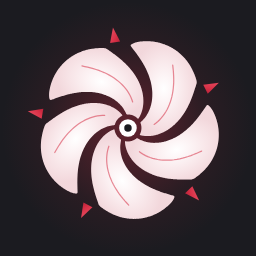
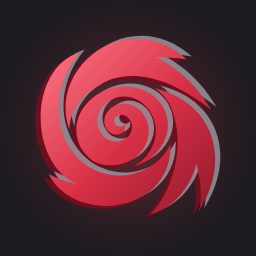
Rosa nova (redemoinho 4D-2) em toda a identidade: ícones, login, barra e crédito
- RoseEmblem: Vórtice trocado pelo redemoinho "flower-twirl" (Game Icons, CC BY 3.0) em separação de cor (vinho, prata, carmim)
- Ícones do app, favicon e badge regerados (scripts/gen-icons.py)
- Login sem a espiral tracejada antiga
- Crédito do desenho em Configurações > Sobre (4 idiomas)

diff --git a/src/components/RoseEmblem.tsx b/src/components/RoseEmblem.tsx
@@ -1,68 +1,30 @@
-// Emblema "Vórtice" do Rose: 5 pétalas em redemoinho, olho no centro e 5 espinhos. Formas geradas por código.
-// <EmblemDefs/> entra uma vez na página; <Emblem/> reaproveita as formas (<use>) com separação de cores carmim/prata.
-const PETAL = 'M 8.7,-245.4 L 9.9,-246.5 L 11.2,-247.4 L 12.5,-248.3 L 14.0,-249.0 L 15.5,-249.7 L 17.1,-250.4 L 18.7,-251.0 L 20.4,-251.6 L 22.1,-252.1 L 23.9,-252.7 L 25.7,-253.1 L 27.7,-253.6 L 29.7,-254.0 L 31.8,-254.3 L 33.8,-254.7 L 35.9,-255.0 L 38.1,-255.2 L 40.2,-255.5 L 42.3,-255.7 L 44.5,-255.8 L 46.6,-256.0 L 48.7,-256.1 L 50.9,-256.2 L 53.0,-256.2 L 55.2,-256.3 L 57.3,-256.2 L 59.5,-256.2 L 61.6,-256.1 L 63.8,-256.0 L 65.9,-255.9 L 68.0,-255.7 L 70.2,-255.6 L 72.3,-255.3 L 74.5,-255.1 L 76.6,-254.8 L 78.7,-254.5 L 80.8,-254.1 L 83.0,-253.8 L 85.1,-253.3 L 87.2,-252.9 L 89.3,-252.4 L 91.4,-251.9 L 93.5,-251.4 L 95.6,-250.9 L 97.6,-250.3 L 99.7,-249.7 L 101.8,-249.0 L 103.8,-248.3 L 105.9,-247.6 L 107.9,-246.9 L 109.9,-246.1 L 111.9,-245.3 L 113.9,-244.5 L 115.9,-243.6 L 117.9,-242.8 L 119.8,-241.8 L 121.8,-240.9 L 123.7,-239.9 L 125.6,-238.9 L 127.5,-237.9 L 129.4,-236.9 L 131.3,-235.8 L 133.1,-234.7 L 134.9,-233.5 L 136.8,-232.4 L 138.6,-231.2 L 140.4,-230.0 L 142.1,-228.7 L 143.9,-227.5 L 145.6,-226.2 L 147.3,-224.9 L 149.0,-223.5 L 150.7,-222.2 L 152.3,-220.8 L 154.0,-219.4 L 155.6,-217.9 L 157.2,-216.5 L 158.7,-215.0 L 160.3,-213.5 L 161.8,-212.0 L 163.3,-210.4 L 164.8,-208.9 L 166.2,-207.3 L 167.7,-205.7 L 169.1,-204.1 L 170.5,-202.4 L 171.8,-200.8 L 173.2,-199.1 L 174.5,-197.4 L 175.8,-195.7 L 177.0,-193.9 L 178.3,-192.2 L 179.5,-190.4 L 180.7,-188.6 L 181.8,-186.8 L 183.0,-185.0 L 184.1,-183.2 L 185.2,-181.3 L 186.2,-179.5 L 187.2,-177.6 L 188.2,-175.7 L 189.2,-173.8 L 190.2,-171.8 L 191.1,-169.8 L 192.1,-167.8 L 193.0,-165.8 L 194.0,-163.6 L 194.9,-161.4 L 195.9,-159.1 L 196.9,-156.8 L 197.8,-154.4 L 198.7,-152.0 L 199.6,-149.5 L 200.4,-146.9 L 201.2,-144.3 L 202.0,-141.5 L 202.7,-138.6 L 203.0,-135.9 L 203.0,-133.4 L 202.7,-131.2 L 202.0,-129.1 L 201.3,-127.0 L 200.7,-124.8 L 200.0,-122.7 L 199.3,-120.5 L 198.6,-118.4 L 197.9,-116.2 L 197.2,-114.0 L 196.5,-111.8 L 195.8,-109.6 L 195.1,-107.4 L 194.4,-105.2 L 193.6,-103.0 L 192.9,-100.8 L 192.1,-98.6 L 191.3,-96.4 L 190.5,-94.2 L 189.7,-92.0 L 188.8,-89.8 L 188.0,-87.7 L 187.1,-85.5 L 186.2,-83.3 L 185.3,-81.1 L 184.4,-79.0 L 183.5,-76.8 L 182.5,-74.7 L 181.6,-72.5 L 180.6,-70.4 L 179.6,-68.3 L 178.5,-66.2 L 177.5,-64.1 L 176.4,-62.0 L 175.4,-60.0 L 174.2,-57.9 L 173.1,-55.9 L 172.0,-53.9 L 170.8,-51.9 L 169.6,-49.9 L 168.4,-47.9 L 167.2,-46.0 L 166.0,-44.0 L 164.7,-42.1 L 163.5,-40.2 L 162.2,-38.3 L 160.8,-36.5 L 159.5,-34.6 L 158.2,-32.8 L 156.8,-31.0 L 155.4,-29.3 L 154.0,-27.5 L 152.6,-25.8 L 151.1,-24.1 L 149.7,-22.4 L 148.2,-20.7 L 146.7,-19.1 L 145.2,-17.5 L 143.6,-15.9 L 142.1,-14.3 L 140.5,-12.8 L 139.0,-11.3 L 137.4,-9.8 L 135.8,-8.4 L 134.1,-7.0 L 132.5,-5.6 L 130.9,-4.2 L 129.2,-2.9 L 127.5,-1.5 L 125.8,-0.3 L 124.1,1.0 L 122.4,2.2 L 120.7,3.4 L 118.9,4.5 L 117.2,5.7 L 115.4,6.8 L 113.7,7.8 L 111.9,8.9 L 110.1,9.9 L 108.3,10.8 L 106.5,11.8 L 104.7,12.7 L 102.8,13.5 L 101.0,14.4 L 99.2,15.2 L 97.3,15.9 L 95.5,16.6 L 93.6,17.3 L 91.8,18.0 L 89.9,18.6 L 88.1,19.2 L 86.2,19.8 L 84.3,20.3 L 82.5,20.8 L 80.6,21.2 L 78.7,21.7 L 76.8,22.0 L 75.0,22.4 L 73.1,22.7 L 71.2,23.0 L 69.4,23.2 L 67.5,23.4 L 65.6,23.5 L 63.8,23.7 L 61.9,23.8 L 60.1,23.8 L 58.2,23.8 L 56.4,23.8 L 54.6,23.8 L 52.8,23.7 L 51.0,23.5 L 49.2,23.4 L 47.4,23.2 L 45.6,22.9 L 43.8,22.7 L 42.1,22.4 L 40.3,22.0 L 38.6,21.6 L 36.9,21.2 L 35.7,20.7 L 35.1,20.1 L 35.0,19.3 L 35.4,18.5 L 35.9,17.6 L 36.3,16.8 L 36.7,15.9 L 37.0,15.0 L 37.4,14.1 L 37.7,13.2 L 38.0,12.3 L 38.3,11.4 L 38.6,10.5 L 38.8,9.5 L 39.0,8.6 L 39.2,7.7 L 39.4,6.7 L 39.5,5.8 L 39.7,4.8 L 39.8,3.9 L 39.9,2.9 L 39.9,2.0 L 39.9,1.0 L 40.0,0.0 L 39.9,-0.9 L 39.9,-1.9 L 39.9,-2.8 L 39.8,-3.8 L 39.7,-4.7 L 39.5,-5.7 L 39.4,-6.6 L 39.2,-7.6 L 39.0,-8.5 L 38.8,-9.5 L 38.6,-10.4 L 38.3,-11.3 L 38.0,-12.2 L 37.7,-13.1 L 37.4,-14.0 L 37.1,-14.9 L 37.1,-15.9 L 37.6,-16.9 L 38.5,-18.0 L 39.9,-19.2 L 41.2,-20.4 L 42.4,-21.6 L 43.7,-22.9 L 44.9,-24.2 L 46.2,-25.5 L 47.3,-26.9 L 48.5,-28.2 L 49.7,-29.7 L 50.8,-31.1 L 51.9,-32.6 L 52.9,-34.0 L 54.0,-35.6 L 55.0,-37.1 L 56.0,-38.7 L 56.9,-40.3 L 57.9,-41.9 L 58.8,-43.5 L 59.7,-45.2 L 60.5,-46.9 L 61.3,-48.6 L 62.1,-50.3 L 62.9,-52.1 L 63.6,-53.8 L 64.3,-55.6 L 65.0,-57.4 L 65.6,-59.3 L 66.3,-61.1 L 66.8,-63.0 L 67.4,-64.9 L 67.9,-66.8 L 68.4,-68.7 L 68.9,-70.6 L 69.3,-72.6 L 69.7,-74.5 L 70.1,-76.5 L 70.4,-78.5 L 70.7,-80.5 L 71.0,-82.5 L 71.2,-84.5 L 71.4,-86.6 L 71.6,-88.6 L 71.7,-90.7 L 71.9,-92.7 L 71.9,-94.8 L 72.0,-96.9 L 72.0,-99.0 L 72.0,-101.1 L 72.0,-103.2 L 71.9,-105.3 L 71.8,-107.5 L 71.6,-109.6 L 71.5,-111.7 L 71.2,-113.9 L 71.0,-116.0 L 70.7,-118.2 L 70.4,-120.3 L 70.1,-122.5 L 69.8,-124.6 L 69.4,-126.8 L 68.9,-128.9 L 68.5,-131.1 L 68.0,-133.3 L 67.5,-135.4 L 67.0,-137.6 L 66.4,-139.8 L 65.8,-141.9 L 65.2,-144.1 L 64.5,-146.2 L 63.8,-148.4 L 63.1,-150.5 L 62.4,-152.7 L 61.6,-154.8 L 60.8,-157.0 L 60.0,-159.1 L 59.1,-161.2 L 58.3,-163.3 L 57.4,-165.5 L 56.4,-167.6 L 55.5,-169.7 L 54.5,-171.8 L 53.5,-173.9 L 52.5,-176.0 L 51.5,-178.0 L 50.4,-180.1 L 49.3,-182.2 L 48.2,-184.2 L 47.1,-186.3 L 45.9,-188.3 L 44.7,-190.3 L 43.5,-192.4 L 42.3,-194.4 L 41.1,-196.4 L 39.9,-198.4 L 38.6,-200.3 L 37.3,-202.3 L 36.0,-204.3 L 34.7,-206.2 L 33.4,-208.2 L 32.1,-210.1 L 30.7,-212.0 L 29.4,-213.9 L 28.0,-215.8 L 26.7,-217.7 L 25.3,-219.6 L 23.9,-221.4 L 22.5,-223.3 L 21.1,-225.1 L 19.7,-227.0 L 18.3,-228.8 L 17.0,-230.6 L 15.6,-232.4 L 14.2,-234.2 L 12.8,-236.0 L 11.5,-237.8 L 10.1,-239.5 L 8.8,-241.3 L 8.1,-242.8 L 8.1,-244.2 Z'
-const VEIN = 'M 77.3,-10.5 L 83.0,-14.7 L 88.4,-19.2 L 93.7,-24.2 L 98.6,-29.6 L 103.4,-35.4 L 107.8,-41.5 L 111.9,-48.0 L 115.7,-54.7 L 119.2,-61.8 L 122.3,-69.1 L 125.1,-76.7 L 127.6,-84.5 L 129.7,-92.5 L 131.4,-100.6 L 132.8,-108.9 L 133.9,-117.3 L 134.6,-125.8 L 135.1,-134.3 L 135.2,-143.0 L 135.0,-151.6 L 134.6,-160.2 L 134.0,-168.8 L 133.1,-177.3 L 132.2,-185.8'
-const ROT = [0, 72, 144, 216, 288]
-const THORN_ROT = [63.5, 135.5, 207.5, 279.5, 351.5]
+// Rosa do Rose: redemoinho "flower-twirl" do Game Icons (Lorc, CC BY 3.0, game-icons.net) em separação de cor:
+// sombra vinho e reflexo prata deslocados atrás de um redemoinho carmim em degradê (variação 4D-2).
+// <EmblemDefs/> entra uma vez na página; <Emblem/> reaproveita as formas (<use>).
+export const TWIRL = 'M277.15 15.205C156.242 16.415 55.302 138.49 97.855 259.738c.236-.898.495-1.78.74-2.672c2.014-44.925 29.754-87.052 72.382-111.033C240.472 96.4 349.52 103.243 482.07 207.91C441.497 139.717 395.89 98.6 331.764 64.86c25.326 1.366 52.64 1.44 83.797 6.826c-44.575-40.27-92.906-56.936-138.41-56.48zM125.822 52.412c-137.746 41.46-140.07 297.526-7.592 355.668c-26.982-5.33-52.944-14.213-75.92-26.867c70.023 139.78 335.9 106.928 329.42-81.266c-17.214 37.204-52.435 67.6-97.572 79.705c-35.122 9.42-70.577 6.236-100.363-6.76c-98.026-39.283-154.31-188.008-47.97-320.48zm123.96 91.914c-12.187-.084-24.737 1.472-37.323 4.848c-67.128 18.003-107.523 80.338-91.952 138.502c7.036 26.283 24.393 47.58 47.498 61.373c17.175 6.946 35.95 9.88 54.303 8.15c50.952-4.81 95.722-48.554 90.434-100.952c-3.738-37.02-35.686-69.512-73.648-65.363c-26.23 2.867-49.247 25.63-46.123 52.295c2.097 17.902 17.716 33.58 35.705 31.297h.002c11.602-1.472 21.745-11.662 20.197-23.002a14.6 14.6 0 0 0-1.21-4.096a15.97 15.97 0 0 1-8.044 5.077c-8.567 2.296-17.376-2.79-19.672-11.357c-2.294-8.568 2.79-17.373 11.36-19.668c.49-.132.984-.235 1.477-.32l-.002-.01l.13-.016h.005c17.875-2.566 32.265 11.716 34.47 27.86h-.003c3.123 22.877-15.39 41.404-36.358 44.064c-29.462 3.737-53.413-20.335-56.614-47.656c-4.464-38.11 26.966-69.14 62.65-73.042a80 80 0 0 1 9.14-.478c45.104.222 80.722 38.92 85.126 82.54c4.628 45.855-21.593 85.602-59.184 106.435c65.427-18.976 104.47-80.37 89.12-137.714c-12.652-47.26-58.668-78.407-111.485-78.77zm79.74 5.326c23.968 16.104 42.048 39.66 49.798 68.612c.908 3.39 1.65 6.79 2.243 10.187c26.737 85.357-5.167 199.845-63.8 261.392C379.27 473.715 425.278 417.11 441.6 353.756c12.557 44.178 15.743 89.788 7.02 128.187c93.862-152.582 29.32-296.865-119.097-332.29z'
 
 export function EmblemDefs() {
   return (
     <svg width="0" height="0" aria-hidden style={{ position: 'absolute' }}>
       <defs>
-        <g id="lg-petals">
-          {ROT.map((a) => <path key={a} d={PETAL} transform={`translate(310 310) rotate(${a})`} />)}
-        </g>
-        <g id="lg-thorns">
-          {THORN_ROT.map((a) => <polygon key={a} points="0,-300 -15,-256 15,-256" transform={`translate(310 310) rotate(${a})`} />)}
-        </g>
-        <g id="lg-veins" fill="none" stroke="#d62f45" strokeWidth={3.6} strokeLinecap="round" opacity={0.55}>
-          {ROT.map((a) => <path key={a} d={VEIN} transform={`translate(310 310) rotate(${a})`} />)}
-        </g>
-        <linearGradient id="lg-crimson" x1="0" y1="0" x2="1" y2="1">
-          <stop offset="0" stopColor="#ec5468" />
-          <stop offset="0.7" stopColor="#d62f45" />
-          <stop offset="1" stopColor="#b8233a" />
+        <path id="rose-twirl" d={TWIRL} />
+        <linearGradient id="rose-cr" x1="0" y1="0" x2="1" y2="1">
+          <stop offset="0" stopColor="#ff7a8a" />
+          <stop offset=".55" stopColor="#d62f45" />
+          <stop offset="1" stopColor="#8f1a2c" />
         </linearGradient>
-        <radialGradient id="lg-shade" cx="50%" cy="50%" r="50%">
-          <stop offset="0" stopColor="#d62f45" stopOpacity="0" />
-          <stop offset="1" stopColor="#b8233a" stopOpacity="0.35" />
-        </radialGradient>
-        <filter id="lg-wob" x="-10%" y="-10%" width="120%" height="120%">
-          <feTurbulence type="fractalNoise" baseFrequency="0.014" numOctaves="2" result="n" seed="7" />
-          <feDisplacementMap in="SourceGraphic" in2="n" scale="7" xChannelSelector="R" yChannelSelector="G" />
-        </filter>
       </defs>
     </svg>
   )
 }
 
-/** simple = versão pequena (sem oscilação líquida nem separação de cores) */
+/** simple = sem a sombra de brilho (tamanhos pequenos); as três camadas ficam em qualquer tamanho */
 export function Emblem({ simple = false, className }: { simple?: boolean; className?: string }) {
-  const wob = simple ? undefined : 'url(#lg-wob)'
   return (
-    <svg className={className} viewBox="0 0 620 620" fill="none" aria-hidden>
-      {!simple && (
-        <>
-          <g className="lg-chroma lg-chroma-red" filter={wob}>
-            <use href="#lg-petals" fill="#d62f45" />
-            <use href="#lg-thorns" fill="#d62f45" />
-            <circle cx="310" cy="310" r="26" fill="#d62f45" />
-          </g>
-          <g className="lg-chroma lg-chroma-silver" filter={wob}>
-            <use href="#lg-petals" fill="#c3c6d0" />
-            <use href="#lg-thorns" fill="#c3c6d0" />
-            <circle cx="310" cy="310" r="26" fill="#c3c6d0" />
-          </g>
-        </>
-      )}
-      <g filter={wob}>
-        <use href="#lg-petals" fill="#ffffff" />
-        {!simple && <use href="#lg-petals" fill="url(#lg-shade)" />}
-        <use href="#lg-veins" />
-        <use href="#lg-thorns" fill={simple ? '#d62f45' : 'url(#lg-crimson)'} />
-        <circle cx="310" cy="310" r="26" fill="#ffffff" />
-        <circle cx="310" cy="310" r="11" fill="#1b1b20" />
-      </g>
+    <svg className={className} viewBox="0 0 512 512" fill="none" aria-hidden>
+      <g transform="translate(-14 8)"><use href="#rose-twirl" fill="#6e0f1f" /></g>
+      <g transform="translate(14 -8)" opacity={0.6}><use href="#rose-twirl" fill="#c3c6d0" /></g>
+      <use href="#rose-twirl" fill="url(#rose-cr)" style={simple ? undefined : { filter: 'drop-shadow(0 0 18px rgba(214,47,69,.35))' }} />
     </svg>
   )
 }

diff --git a/src/styles/motion.css b/src/styles/motion.css
@@ -5,7 +5,7 @@
 .rail-brand { display: flex; align-items: center; gap: 10px; flex: none; color: var(--text); font-weight: 700; font-size: 16px; letter-spacing: -.02em; }
 .rail-brand i { width: 34px; height: 34px; border-radius: 10px; display: grid; place-items: center; flex: none;
   background: radial-gradient(circle, rgba(214,47,69,.35), transparent 70%), #1b1b20; box-shadow: inset 0 0 0 1px rgba(195,198,208,.12); }
-.rail-brand svg { width: 28px; height: 28px; }
+.rail-brand svg { width: 26px; height: 26px; }
 .shell.rail-open .rail-brand { padding: 0 0 4px; }
 @media (max-width: 820px) { .rail-brand { display: none; } }
 

diff --git a/src/components/Login.tsx b/src/components/Login.tsx
@@ -180,9 +180,6 @@ export function Login({ denied }: Props) {
                 <Emblem className="lg-big" />
               </div>
             </div>
-            <div className="lg-inner">
-              <svg viewBox="0 0 300 300" fill="none"><path d="M 150 40 C 90 40 40 90 40 150 C 40 210 90 260 150 260 C 200 260 240 220 240 170 C 240 130 210 100 170 100 C 140 100 120 120 120 150 C 120 170 135 185 155 185" stroke="#ec5468" strokeWidth="10" strokeLinecap="round" strokeDasharray="14 18" /></svg>
-            </div>
           </div>
         </section>
       </main>

diff --git a/src/components/Settings.tsx b/src/components/Settings.tsx
@@ -228,6 +228,7 @@ export function Settings({ session, theme, setTheme, initialTab = 'account', onC
             <div className="settings-sec">
               {row('Rose', <span>v0.1</span>, t('app.tagline'))}
               {row(t('settings.shortcuts'), <span />, t('settings.shortcutsHint'))}
+              {row(t('settings.iconCredit'), <span />, t('settings.iconCreditHint'))}
             </div>
           )}
         </div>

diff --git a/scripts/gen-icons.py b/scripts/gen-icons.py
@@ -1,46 +1,41 @@
-"""Gera os ícones do app a partir do emblema Vórtice (src/components/RoseEmblem.tsx).
-Uso: python scripts/gen-icons.py  (precisa de playwright: pip install playwright && playwright install chromium)"""
+"""Gera os ícones do app a partir da rosa do Rose (TWIRL em src/components/RoseEmblem.tsx, variação 4D-2).
+Uso: python scripts/gen-icons.py  (precisa de playwright: pip install playwright && playwright install chromium)
+Desenho: "flower-twirl" do Game Icons (Lorc, CC BY 3.0, game-icons.net)."""
 import os, re
 from playwright.sync_api import sync_playwright
 
 ROOT = os.path.dirname(os.path.dirname(os.path.abspath(__file__)))
-src = open(os.path.join(ROOT, "src", "components", "RoseEmblem.tsx"), encoding="utf-8").read()
-PETAL, VEIN = (re.search(rf"const {n} = '([^']+)'", src).group(1) for n in ("PETAL", "VEIN"))
-ROT, THORN = [0, 72, 144, 216, 288], [63.5, 135.5, 207.5, 279.5, 351.5]
+TWIRL = re.search(r"export const TWIRL = '([^']+)'", open(os.path.join(ROOT, "src", "components", "RoseEmblem.tsx"), encoding="utf-8").read()).group(1)
+GRAD = '<linearGradient id="cr" x1="0" y1="0" x2="1" y2="1"><stop offset="0" stop-color="#ff7a8a"/><stop offset=".55" stop-color="#d62f45"/><stop offset="1" stop-color="#8f1a2c"/></linearGradient>'
 
 
-def emblem(detail=True, mono=False):
-    """SVG 620x620 do emblema. mono = silhueta branca (badge de notificação do Android)."""
-    t = lambda a: f'transform="translate(310 310) rotate({a})"'
-    fill = "#fff"
-    petals = "".join(f'<path d="{PETAL}" {t(a)} fill="{fill}"/>' for a in ROT)
-    if detail and not mono:
-        petals += "".join(f'<path d="{PETAL}" {t(a)} fill="url(#sh)"/>' for a in ROT)
-        petals += "".join(f'<path d="{VEIN}" {t(a)} fill="none" stroke="#d62f45" stroke-width="3.6" stroke-linecap="round" opacity=".55"/>' for a in ROT)
-    thorns = "".join(f'<polygon points="0,-300 -15,-256 15,-256" {t(a)} fill="{fill if mono else "url(#cr)"}"/>' for a in THORN)
-    eye = '<circle cx="310" cy="310" r="26" fill="#fff"/>' + ('' if mono else '<circle cx="310" cy="310" r="11" fill="#1b1b20"/>')
-    defs = ('<defs><linearGradient id="cr" x1="0" y1="0" x2="1" y2="1"><stop offset="0" stop-color="#ec5468"/><stop offset=".7" stop-color="#d62f45"/><stop offset="1" stop-color="#b8233a"/></linearGradient>'
-            '<radialGradient id="sh" cx="50%" cy="50%" r="50%"><stop offset="0" stop-color="#d62f45" stop-opacity="0"/><stop offset="1" stop-color="#b8233a" stop-opacity=".18"/></radialGradient></defs>')
-    return f'<svg xmlns="http://www.w3.org/2000/svg" viewBox="0 0 620 620">{defs}{petals}{thorns}{eye}</svg>'
+def rose(mono=False):
+    """SVG 512x512 da rosa. mono = silhueta branca (badge de notificação do Android)."""
+    if mono:
+        return f'<svg xmlns="http://www.w3.org/2000/svg" viewBox="0 0 512 512"><path d="{TWIRL}" fill="#fff"/></svg>'
+    return (f'<svg xmlns="http://www.w3.org/2000/svg" viewBox="0 0 512 512"><defs>{GRAD}</defs>'
+            f'<path d="{TWIRL}" fill="#6e0f1f" transform="translate(-14 8)"/>'
+            f'<path d="{TWIRL}" fill="#c3c6d0" opacity=".6" transform="translate(14 -8)"/>'
+            f'<path d="{TWIRL}" fill="url(#cr)"/></svg>')
 
 
 def tile(size, scale, bg=True):
-    """Ícone quadrado: fundo grafite com brilho carmim e o emblema ocupando `scale` do lado."""
-    glow = "radial-gradient(circle at 50% 50%, rgba(214,47,69,.38), rgba(214,47,69,.08) 45%, transparent 70%), #1b1b20" if bg else "transparent"
+    """Ícone quadrado: fundo grafite com brilho carmim e a rosa ocupando `scale` do lado."""
+    glow = "radial-gradient(circle at 50% 50%, rgba(214,47,69,.45), rgba(214,47,69,.08) 55%, transparent 75%), #1b1b20" if bg else "transparent"
     e = size * scale
     return (f'<html><body style="margin:0;width:{size}px;height:{size}px;background:{glow};display:grid;place-items:center">'
-            f'<div style="width:{e}px;height:{e}px">{emblem(detail=size >= 128, mono=not bg)}</div></body></html>')
+            f'<div style="width:{e}px;height:{e}px">{rose(mono=not bg)}</div></body></html>')
 
 
 PUB = os.path.join(ROOT, "public")
-open(os.path.join(PUB, "favicon.svg"), "w", encoding="utf-8").write(emblem(detail=False))
-OUT = [  # arquivo, tamanho, fração do emblema, com fundo
-    ("icon-512.png", 512, 0.82, True),
-    ("icon-192.png", 192, 0.82, True),
-    ("icon.png", 256, 0.82, True),
-    ("apple-touch-icon.png", 180, 0.74, True),  # o iOS arredonda os cantos: um pouco mais de respiro
-    ("icon-maskable-512.png", 512, 0.6, True),  # zona segura do Android = círculo de 80%
-    ("badge-96.png", 96, 0.92, False),
+open(os.path.join(PUB, "favicon.svg"), "w", encoding="utf-8").write(rose())
+OUT = [  # arquivo, tamanho, fração da rosa, com fundo
+    ("icon-512.png", 512, 0.74, True),
+    ("icon-192.png", 192, 0.74, True),
+    ("icon.png", 256, 0.74, True),
+    ("apple-touch-icon.png", 180, 0.68, True),  # o iOS arredonda os cantos: um pouco mais de respiro
+    ("icon-maskable-512.png", 512, 0.56, True),  # zona segura do Android = círculo de 80%
+    ("badge-96.png", 96, 0.9, False),
 ]
 with sync_playwright() as p:
     b = p.chromium.launch()
